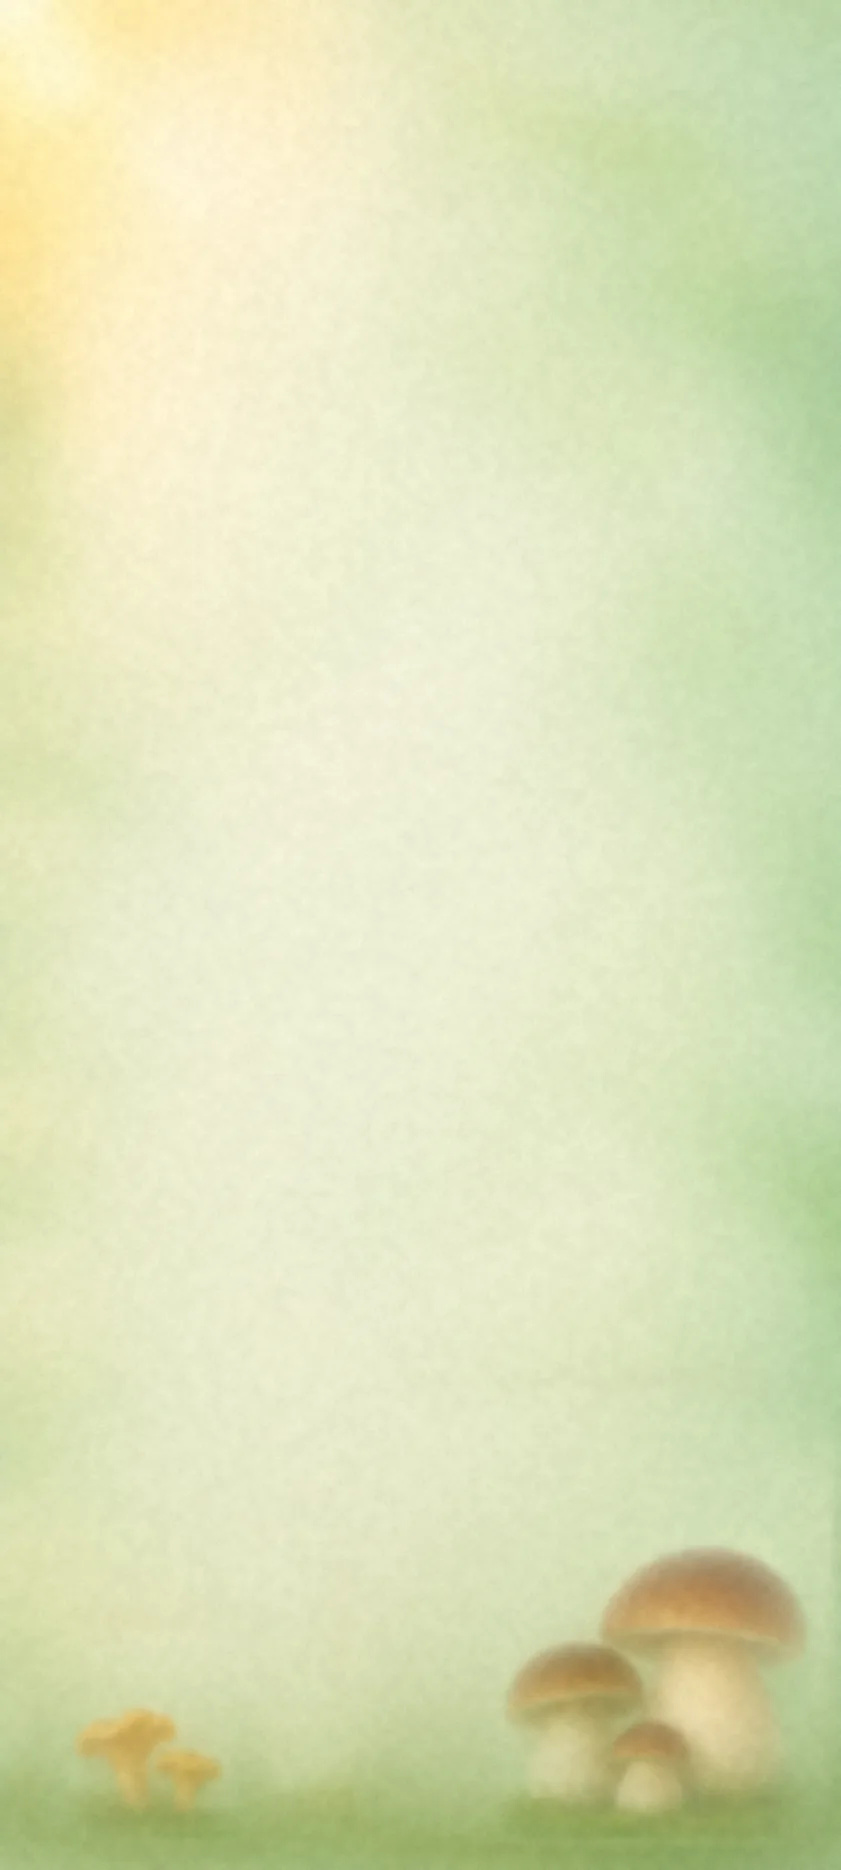
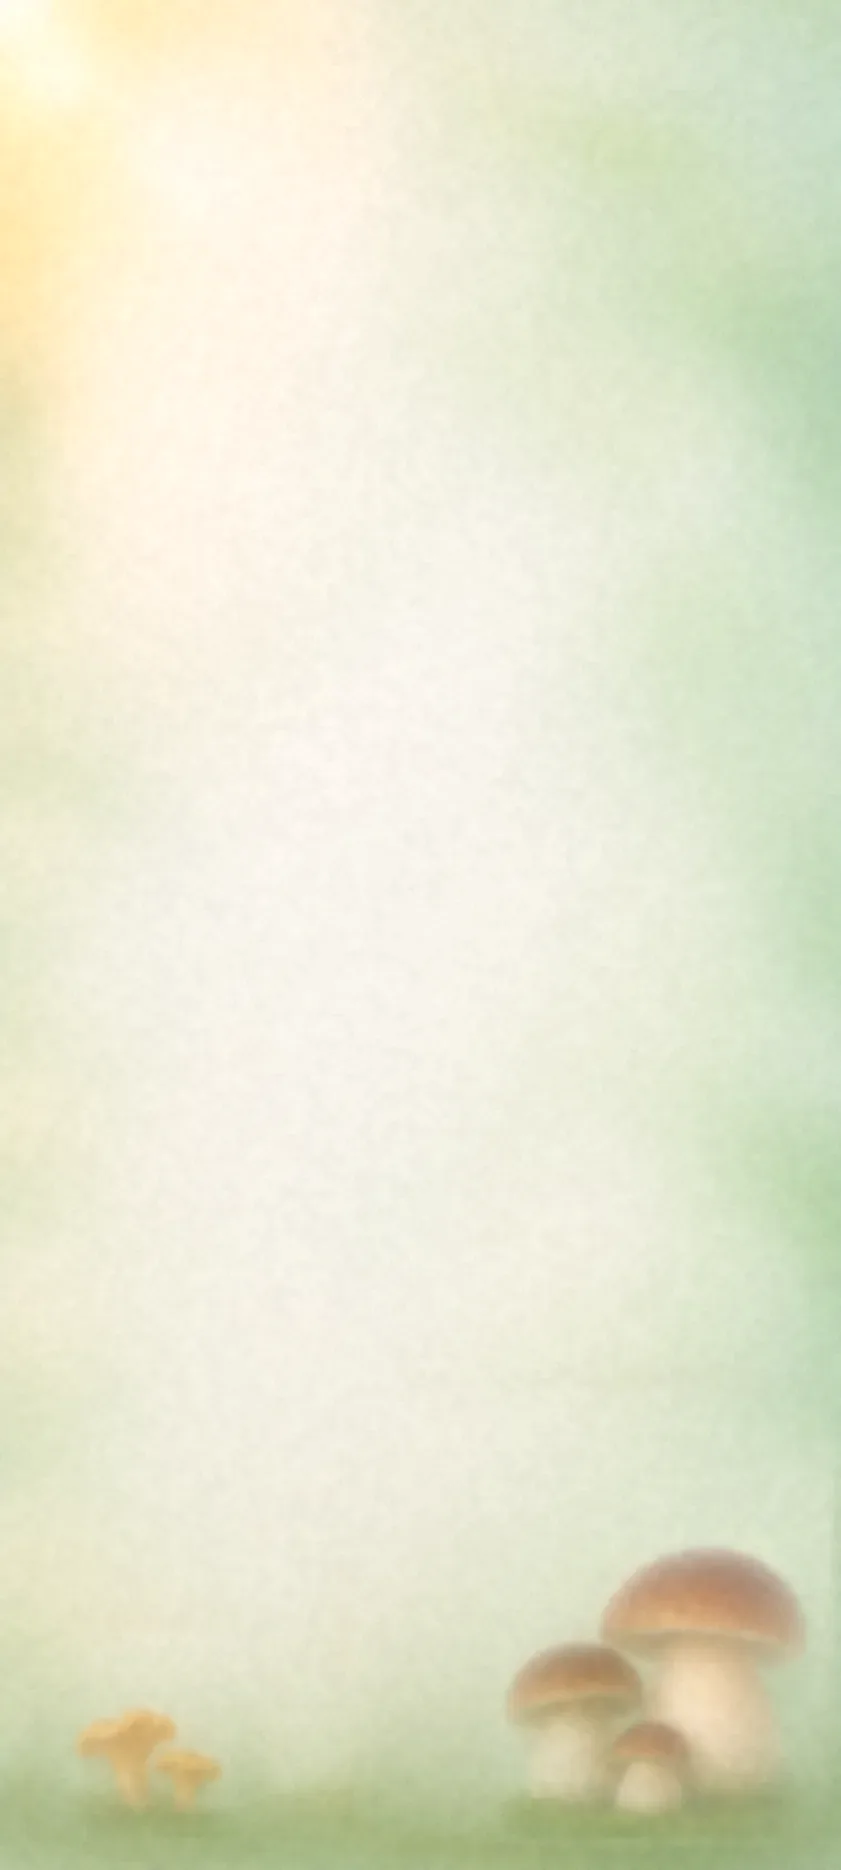
Фон «Прогнозу»: тон туману — колір застосунку (#F4F1E1)
Туман на підкладці був жовто-зеленуватий (≈ #E9ECCB) і відрізнявся від кольору
застосунку. recolor_base.py зсуває весь кадр на одну різницю «колір застосунку − тон
туману»: туман тепер #F4F1E1 (на відрендереному кадрі ≈ #F2F1E1), тінь папороті,
гриби, листя, сонце, промені й краплі — без змін. Запотівання по краях — теплий білий
замість холодного, однотонне тло під час завантаження — теж колір застосунку.

Claude-Session: https://claude.ai/code/session_01QAqVzCi4Q7QaBgkAWQxUoK

diff --git a/flutter_client/lib/features/forecast/forecast_background.dart b/flutter_client/lib/features/forecast/forecast_background.dart
@@ -77,8 +77,8 @@ class _ForecastBackgroundState extends State<ForecastBackground> with SingleTick
   }
 }
 
-/// Колір фону, поки картинка вантажиться (близький до туману на картинці).
-const kForecastBgColor = Color(0xFFEDF0DC);
+/// Колір фону, поки картинка вантажиться = тон туману на картинці = колір застосунку.
+const kForecastBgColor = Color(0xFFF4F1E1);
 
 /// Момент петлі для нерухомого кадру: без листка, крапель і хмарки перед сонцем.
 const kForecastBgStill = 0.36;
@@ -189,7 +189,7 @@ class ForecastBgPainter extends CustomPainter {
     }
 
     // 5. Запотівання по краях — повільно «дихає».
-    _image(canvas, img.fog, full, _tint(const Color(0xFFF6F8F0), 0.62 * (0.88 + 0.12 * math.sin(2 * math.pi * tt))));
+    _image(canvas, img.fog, full, _tint(const Color(0xFFF8F6EB), 0.62 * (0.88 + 0.12 * math.sin(2 * math.pi * tt))));
 
     // 6. Сонце світить крізь скло; тьмяніє, коли хмарка перед ним.
     for (final (r, a) in [(300.0, 0.55 * (1 - 0.65 * cover)), (110.0, 0.45 * (1 - 0.8 * cover))]) {

diff --git a/scripts/forecast_bg/recolor_base.py b/scripts/forecast_bg/recolor_base.py
@@ -1,0 +1,29 @@
+#!/usr/bin/env python3
+"""Фон вкладки «Прогноз», крок 3: тон підкладки — як колір застосунку (рішення PO 2026-11-21).
+
+  python3 scripts/forecast_bg/recolor_base.py base.webp base.webp [--target F4F1E1]
+
+Туман на картинці був жовто-зеленуватий і помітно відрізнявся від кольору застосунку
+(AppTheme.backgroundColor #F4F1E1). Зсуваємо весь кадр на одну різницю «колір застосунку −
+тон туману» (тон туману — медіана світлих пікселів): туман стає кольору застосунку, а тіні,
+гриби, листя зберігають свій малюнок і контраст (відносно туману нічого не змінюється).
+"""
+import argparse
+
+import numpy as np
+from PIL import Image
+
+p = argparse.ArgumentParser()
+p.add_argument('src')
+p.add_argument('out')
+p.add_argument('--target', default='F4F1E1')
+a = p.parse_args()
+
+target = np.array([int(a.target[i:i + 2], 16) for i in (0, 2, 4)], np.float32)
+img = np.asarray(Image.open(a.src).convert('RGB')).astype(np.float32)
+lum = img @ np.array([0.299, 0.587, 0.114], np.float32)
+haze = np.median(img[lum >= np.percentile(lum, 40)], axis=0)
+delta = target - haze
+print('тон туману', haze.round(1), '→', target, 'зсув', delta.round(1))
+out = np.clip(img + delta, 0, 255).astype(np.uint8)
+Image.fromarray(out).save(a.out, 'WEBP', quality=82, method=6)

diff --git a/scripts/forecast_bg/build_assets.py b/scripts/forecast_bg/build_assets.py
@@ -10,6 +10,7 @@ BASE.png — картинка після shrink_mushrooms.py. У OUT_DIR:
   leaf.png   — силует листка (розмитий);
   rays.png   — віяло сонячних променів від верхнього лівого кута.
 Решту (хмарка, сонце, відблиск, краплі) малює застосунок — фон_painter у forecast_background.dart.
+Далі — recolor_base.py: тон туману на base.webp = колір застосунку (#F4F1E1).
 """
 import math
 import os

diff --git a/docs/DECISIONS.md b/docs/DECISIONS.md
@@ -803,7 +803,9 @@ API: `POST v1-analysis { lat, lng, size_km }` — нова ділянка (`409 
     тумані, гриби внизу — зменшені) + ефекти кодом, петля 30 с: тінь папороті гойдається, хмарка
     заходить за сонце, з-за неї проступають промені, відблиск по краю, листок за склом, запотівання
     по краях «дихає», краплі (великі й малі) стікають зі слідом. Зупиняється поза вкладкою; без
-    анімацій у системі — нерухомий кадр. Ресурси ~150 КБ (`scripts/forecast_bg/`).
+    анімацій у системі — нерухомий кадр. Ресурси ~150 КБ (`scripts/forecast_bg/`). Тон туману —
+    колір застосунку #F4F1E1 (PO 2026-11-21: фон не мав відрізнятися кольором; `recolor_base.py`
+    зсуває весь кадр на одну різницю — тіні, гриби й листя зберігають малюнок).
 21. **Погода по годинах і оновлення раз на 3 години** (рішення PO 2026-11-17): код погоди
     Open-Meteo «за добу» — найсильніше явище доби, тож вечірній дощ робив «Дощ» на весь день, коли
     надворі сонце. Тепер ряд погоди містить години днів прогнозу (код WMO, опади, температура); у
